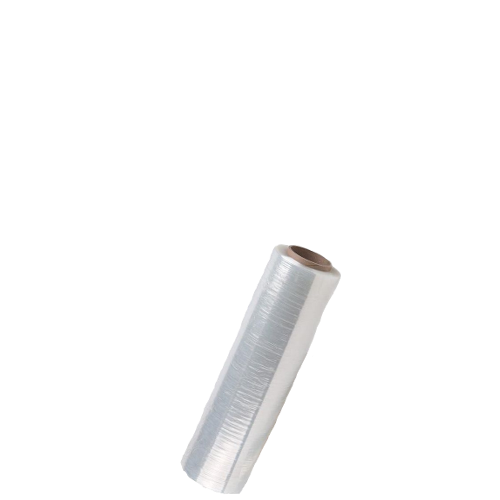
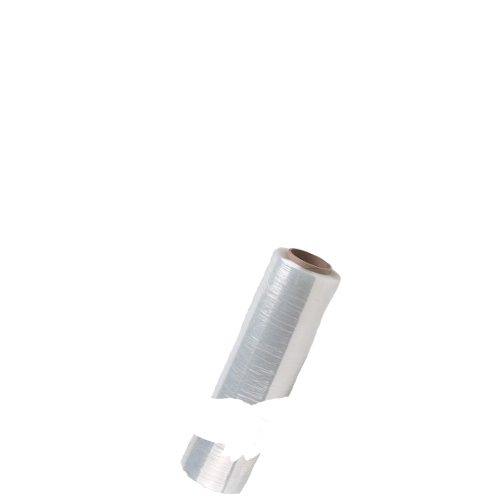
more defining and asset fixes
left out some definitions that were needed to get the item to show, and fixed up some of the alignment with the asset

diff --git a/BondageClub/Assets/Female3DCG/Female3DCG.js b/BondageClub/Assets/Female3DCG/Female3DCG.js
@@ -3101,7 +3101,7 @@ var AssetFemale3DCG = [
 					"FeatherDuster", "LongDuster", "IceCube", "WartenbergWheel", "VibratingWand", "SmallVibratingWand", "CandleWax", "LargeDildo",
 					"PetToy", "Vibrator", "Belt", "Hairbrush", "SmallDildo", "ElectricToothbrush", "Toothbrush", "ShockWand", "Lotion", "Ruler",
 					"Sword", "VibeRemote", "ShockRemote", "Towel", "RopeCoilLong", "RopeCoilShort", "Ballgag", "LongSock", "Baguette", "Panties",
-					"TapeRoll", "Spatula", "Broom", "Phone1", "Phone2","Scissors"],
+					"TapeRoll", "Spatula", "Broom", "Phone1", "Phone2", "Scissors", "PlasticWrap" ],
 				DynamicPreviewImage: C => InventorySpankingToysGetType(C),
 				DynamicAllowInventoryAdd: C => { return InventorySpankingToysAvailableToys(C).length > 0; },
 				Extended: true,

diff --git a/BondageClub/Screens/Inventory/ItemHands/SpankingToys/SpankingToy.js b/BondageClub/Screens/Inventory/ItemHands/SpankingToys/SpankingToy.js
@@ -181,6 +181,10 @@ const InventoryItemHandsSpankingToysOptions = [
 		Name: "Scissors",
 		Property: { Type: "Scissors" },
 		ExpressionTrigger: []
+	},{
+		Name: "PlasticWrap",
+		Property: { Type: "PlasticWrap" },
+		ExpressionTrigger: []
 	},
 ];
 
